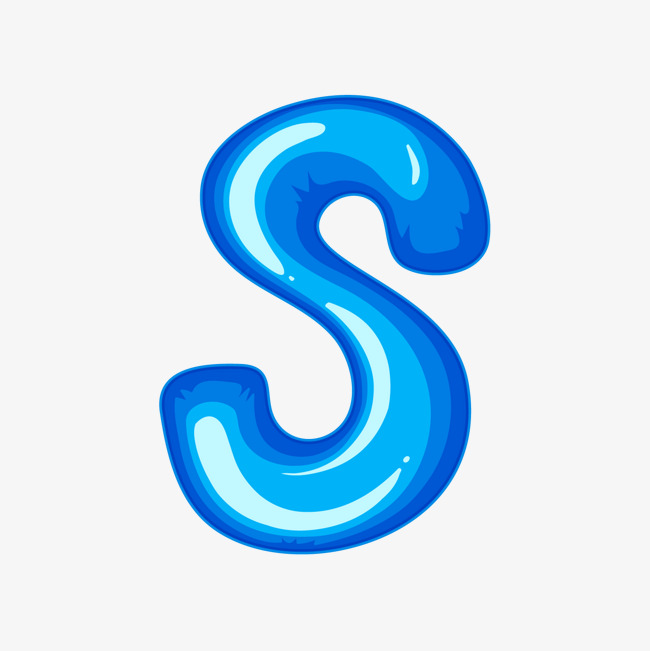
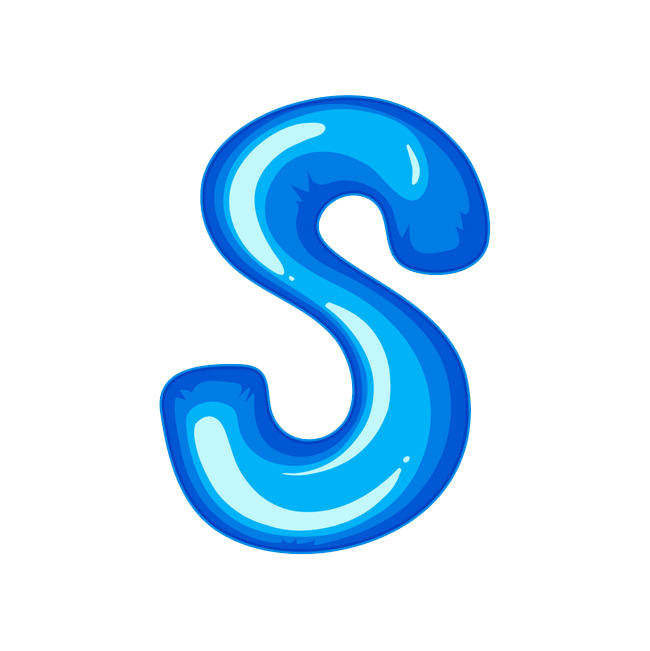
style: 默认使用高S图片.

Changed region(s): [[0.4923, 0.3072, 0.5231, 0.3379]]

diff --git a/src/views/browse-view/half.vue b/src/views/browse-view/half.vue
@@ -76,13 +76,14 @@ const { t } = i18n.global;
 
 const route = useRoute();
 const router = useRouter();
-
-const imgSrc = ref('');
+const sBlue = require('@/assets/s-blue-high.png');
+const imgSrc = ref(sBlue);
 const page = ref(1);
 const pageKey = ref(1); // 用于触发过渡动画
 const browse = useBrowseStore();
 const pager = ref();
 const direction = ref('forward'); // 翻页方向: forward(前进), backward(后退)
+
 
 // 计算属性：根据动画类型和方向返回正确的动画名称
 const animationType = computed(() => {
@@ -132,6 +133,12 @@ async function page_change(pageParams: number) {
 
   const pageImage = browse.imagePathList[Math.ceil(pageParams / 2) - 1];
 
+  // 只有启用动画才需要更新pageKey来触发过渡
+  if (userConfig.enablePageAnimation) {
+    pageKey.value++;
+  }
+  imgSrc.value = sBlue;
+
   // 有缓存则加载缓存的图片
   if (browse.imageFileList[pageParams - 1]) {
     imgSrc.value = browse.imageFileList[pageParams - 1];
@@ -169,10 +176,7 @@ async function page_change(pageParams: number) {
     }
   }
 
-  // 只有启用动画才需要更新pageKey来触发过渡
-  if (userConfig.enablePageAnimation) {
-    pageKey.value++;
-  }
+  
 
   browse.page = pageParams;
   browse.pageImage = pageImage;

diff --git a/src/views/browse-view/single.vue b/src/views/browse-view/single.vue
@@ -74,15 +74,18 @@ import imageApi from '@/api/image';
 import useBrowseStore from '@/store/browse';
 const { t } = i18n.global;
 
+const sBlue = require('@/assets/s-blue-high.png');
+
 const route = useRoute();
 const router = useRouter();
 
-const imgSrc = ref('');
+const imgSrc = ref(sBlue);
 const page = ref(1);
 const pageKey = ref(1); // 用于触发过渡动画
 const pager = ref();
 const browse = useBrowseStore();
 const direction = ref('forward'); // 翻页方向: forward(前进), backward(后退)
+const loading = ref(false);
 
 // 计算属性：根据动画类型和方向返回正确的动画名称
 const animationType = computed(() => {
@@ -126,14 +129,20 @@ async function page_change(pageParams: number) {
   } else {
     direction.value = 'backward';
   }
+
   page.value = pageParams
   const pageImage = browse.imagePathList[pageParams - 1];
-  imgSrc.value = await imageApi.get(pageImage);
 
   // 只有启用动画才需要更新pageKey来触发过渡
   if (userConfig.enablePageAnimation) {
     pageKey.value++;
   }
+
+  loading.value = true;
+  imgSrc.value = sBlue;
+  imgSrc.value = await imageApi.get(pageImage);
+  loading.value = false;
+
 
   browse.page = pageParams;
   browse.pageImage = pageImage;

diff --git a/src/views/browse-view/double.vue b/src/views/browse-view/double.vue
@@ -84,9 +84,9 @@ const { t } = i18n.global;
 
 const route = useRoute();
 const router = useRouter();
-
-const imgSrc1 = ref('');
-const imgSrc2 = ref('');
+const sBlue = require('@/assets/s-blue-high.png');
+const imgSrc1 = ref(sBlue);
+const imgSrc2 = ref(sBlue);
 
 const page = ref(1);
 const removeFirst = ref(false);
@@ -144,6 +144,14 @@ async function page_change(pageParams: number) {
   const index = (pageParams - 1) * 2;
   const pageImage = browse.imagePathList[index];
 
+  // 只有启用动画才需要更新pageKey来触发过渡
+  if (userConfig.enablePageAnimation) {
+    pageKey.value++;
+  }
+
+  // 置空图片 使其不显示上一页
+  imgSrc1.value = sBlue;
+  imgSrc2.value = sBlue;
 
   // 加载第一张图片
   imgSrc1.value = await imageApi.get(browse.imagePathList[index]);
@@ -153,11 +161,7 @@ async function page_change(pageParams: number) {
     ? await imageApi.get(browse.imagePathList[index + 1])
     : '';
 
-  // 只有启用动画才需要更新pageKey来触发过渡
-  if (userConfig.enablePageAnimation) {
-    pageKey.value++;
-  }
-
+  
   // 缓存书签信息
   browse.page = pageParams;
   browse.pageImage = pageImage;

diff --git a/src/views/manga-info/index.vue b/src/views/manga-info/index.vue
@@ -283,9 +283,10 @@ async function get_latest_reading() {
         // 已读完全部漫画
         hasLatest.value = false;
         return;
-    } else {
+    } else {        
         continueRead.value = latest.chapter;
         continueRead.value.page = latest.page;
+        continueRead.value.chapterId = latest.chapterId;
     }
 
     hasLatest.value = true;

diff --git a/src/api/image.ts b/src/api/image.ts
@@ -41,7 +41,7 @@ const img = Axios.create({
 	],
 });
 
-const placeholder = require('@/assets/s-blue.png');
+const placeholder = require('@/assets/s-blue-high.png');
 const imageCache: any = useImageStore();
 const imageApi = {
 	/**
